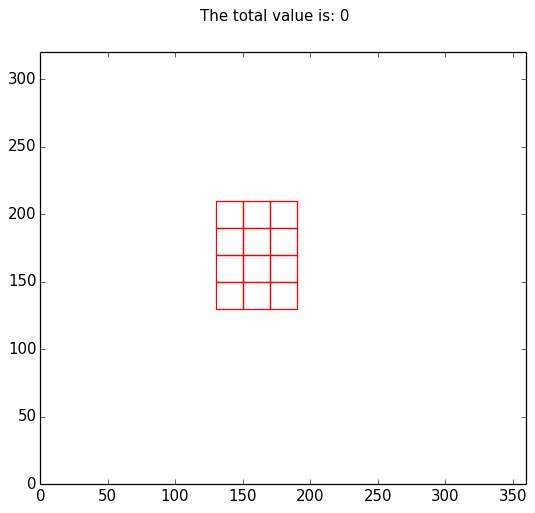
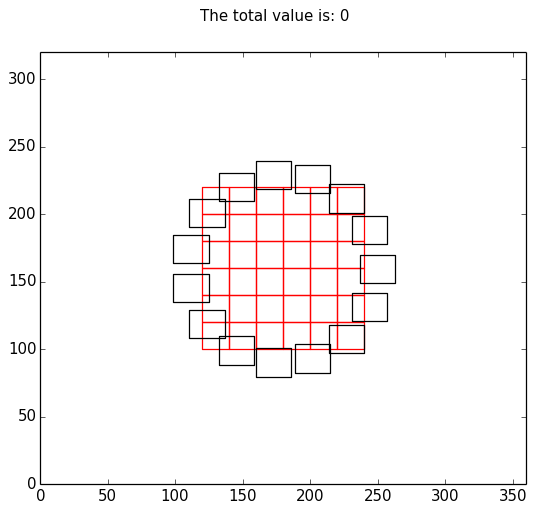
expanding universe

Changed region(s): [[0.2991, 0.3119, 0.7477, 0.7485]]

diff --git a/expanding_universe.py b/expanding_universe.py
@@ -14,18 +14,16 @@ def main(total_houses):
     buildings = []
 
     # set number of each building type
-    h_number = 0.6 * total_houses
-    b_number = 0.25 * total_houses
-    m_number = 0.15 * total_houses
+    h_number = int(0.6 * total_houses)
+    b_number = int(0.25 * total_houses)
+    m_number = int(0.15 * total_houses)
 
     # build houses in middle of map
     grid_size = int(math.ceil(math.sqrt(h_number)))
     counter = 0
     for i in range(grid_size):
 
-        x = (X_DIMENSION + (classes.House.width * (2 * i - grid_size - 1))) / 2
-
-        # x = (X_DIMENSION / 2) + classes.House.width * (i - (grid_size / 2))
+        x = (X_DIMENSION - (classes.House.width * (grid_size - (2 * i)))) / 2
 
 
         for j in range(grid_size):
@@ -33,22 +31,69 @@ def main(total_houses):
             if counter == h_number:
                 break
 
-            y = (Y_DIMENSION + (classes.House.width * (-2 * j + grid_size - 1))) / 2
-
-            # y = (Y_DIMENSION / 2) + (classes.House.length * ((grid_size / 2) - j))
+            y = (Y_DIMENSION + (classes.House.length * (grid_size - 2 - (2 * j)))) / 2
 
             counter += 1
             house = classes.House(x, y)
             buildings.append(house)
 
+    # place bungalows around houses
+    r = (classes.House.width / 2) * (grid_size + 1)
+    t = ((2 * math.pi) / (b_number))
 
-    # r = (grid_size / 2) * math.sqrt(2) * classes.House.width
-    # x = a + r.cos(t)
-    # y = b + r.sin(t)
+    for i in range(b_number):
+
+        x = ((X_DIMENSION - classes.Bungalow.width) / 2) + r * math.cos(t * i)
+        y = ((Y_DIMENSION - classes.Bungalow.length) / 2) + r * math.sin(t * i)
+
+        bungalow = classes.Bungalow(x, y)
+        buildings.append(bungalow)
+
+
+
+    # while len(buildings) < (h_number + b_number):
     #
-    # for i in range(b_number):
+    #     for building in buildings:
+    #         if building.right_top[0] > (X_DIMENSION / 2)
+
+    # b_side = int(math.ceil(b_number / 4.0))
     #
-    #     x = (X_DIMENSION / 2) - grid_size
+    # r = (grid_size / 2) * math.sqrt(2) * classes.House.width + 30
+    # t = ((2 * math.pi) / (b_number))
+    # xlist = []
+    # ylist = []
+    # print b_number
+    # for i in range(b_side):
+    #     angle = math.atan(math.tan(t * i - (math.pi / 4)))
+    #     x = (X_DIMENSION + classes.House.width * grid_size) / 2
+    #     y = (Y_DIMENSION + (math.tan(angle) * classes.House.width * grid_size)) / 2
+    #
+    #     # r = math.sqrt(((grid_size / 2) * classes.House.width)**2 + (i * classes.House.length)**2)
+    #
+    #     # x = ((X_DIMENSION - classes.House.width) / 2) + r * math.cos(t * i)
+    #     # y = ((Y_DIMENSION - classes.House.length) / 2) + r * math.sin(t * i)
+    #
+    #     bungalow = classes.Bungalow(x, y)
+    #     buildings.append(bungalow)
+    #
+    #     # x = math.cos(t * i - (math.pi / 4))
+    #     # y = math.sin(t * i - (math.pi / 4))
+    #     print "x=", x, "y=", y, "angle=", math.tan(angle)
+    #     angle =  math.atan(abs(y / x)) * 57.2
+    #     print "angle=", angle
+    #     b = math.atan(math.tan(t * i - (math.pi / 4)))
+    #     print "andere angle=", b
+    #     xlist.append(x)
+    #     ylist.append(y)
+
+        # print b
+
+    # plt.plot(xlist, ylist, 'ro')
+    # plt.axis([min(xlist), max(xlist), min(ylist), max(ylist)])
+    # plt.show()
+
+
+
 
 
     return buildings
